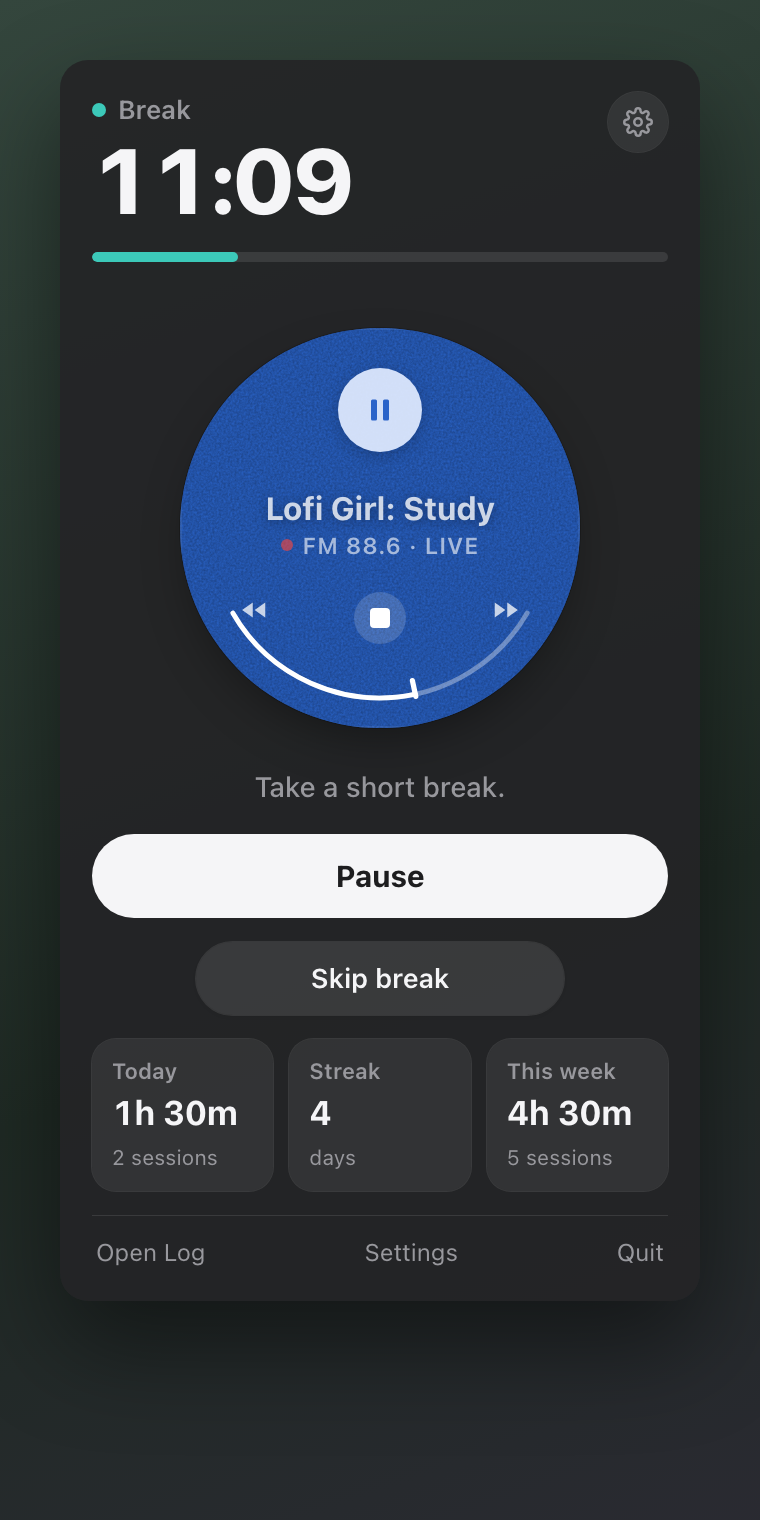
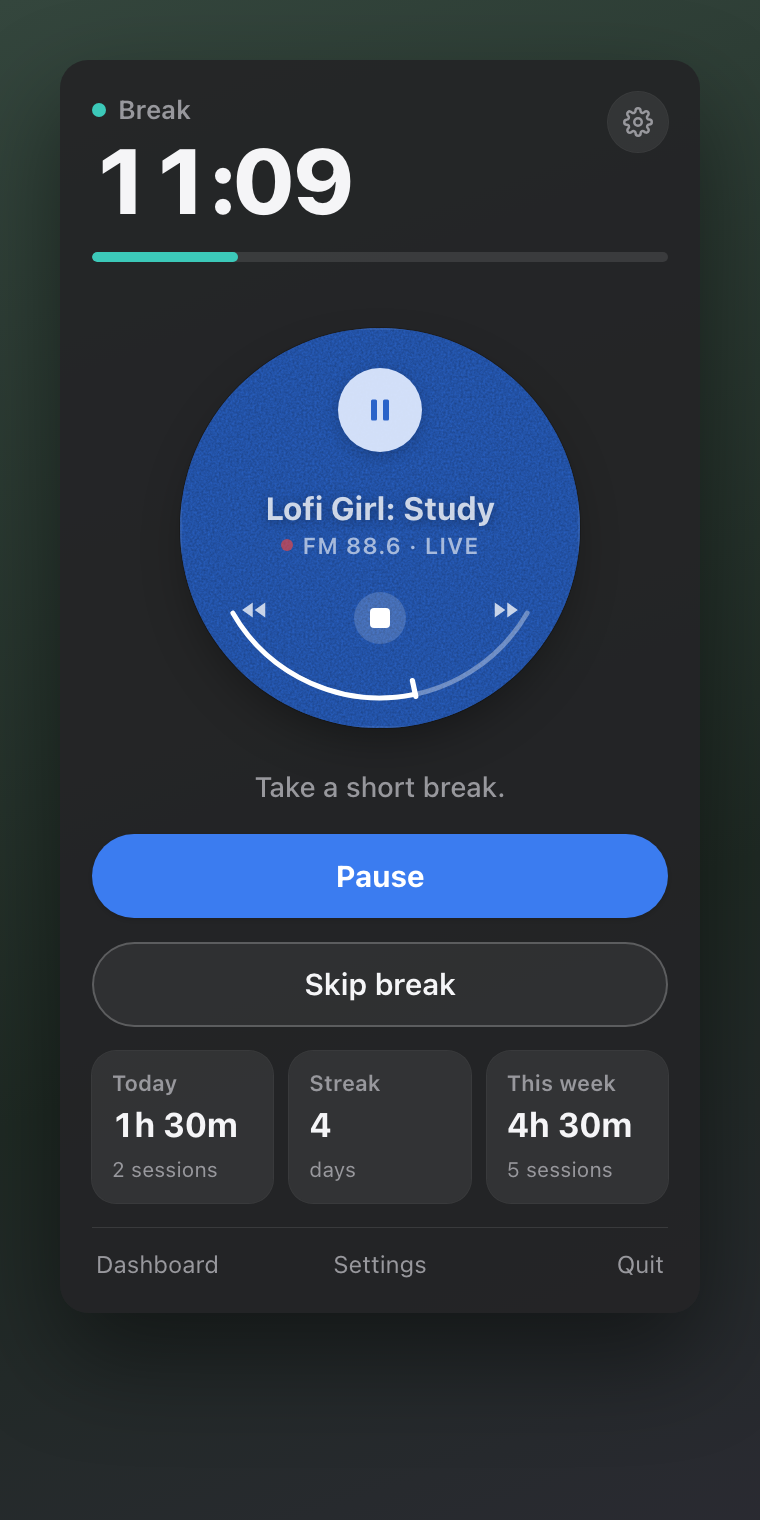
Equal-width buttons: blue main action, outlined second; Dashboard link
- Start Focus, Pause and Resume are blue with white text; the second
  action is the same size, white (subtle in dark mode) with an outline.
- The footer says Dashboard instead of Open Log, and Settings sits
  exactly in the middle. Version 2.9.

diff --git a/src/panel.html b/src/panel.html
@@ -5,8 +5,8 @@
 <meta name="viewport" content="width=device-width, initial-scale=1">
 <title>Focus MN</title>
 <style>
-:root{--ink:#1d1d1f;--muted:#6e6e73;--card:rgba(255,255,255,.72);--line:rgba(0,0,0,.08);--btn:#1d1d1f;--btnInk:#fff;--btn2:#fff;--accent:#2f6fdb;--break:#1fa99b;--field:rgba(0,0,0,.05)}
-@media (prefers-color-scheme: dark){:root{--ink:#f5f5f7;--muted:#98989d;--card:rgba(255,255,255,.07);--line:rgba(255,255,255,.1);--btn:#f5f5f7;--btnInk:#1d1d1f;--btn2:rgba(255,255,255,.1);--accent:#4a8cff;--break:#3cc9b9;--field:rgba(255,255,255,.08)}}
+:root{--ink:#1d1d1f;--muted:#6e6e73;--card:rgba(255,255,255,.72);--line:rgba(0,0,0,.08);--btn:#1d1d1f;--btnInk:#fff;--btn2:#fff;--accent:#2f6fdb;--break:#1fa99b;--outline:rgba(0,0,0,.14);--field:rgba(0,0,0,.05)}
+@media (prefers-color-scheme: dark){:root{--ink:#f5f5f7;--muted:#98989d;--card:rgba(255,255,255,.07);--line:rgba(255,255,255,.1);--btn:#f5f5f7;--btnInk:#1d1d1f;--btn2:rgba(255,255,255,.06);--outline:rgba(255,255,255,.22);--accent:#3b7cf0;--break:#3cc9b9;--field:rgba(255,255,255,.08)}}
 *{box-sizing:border-box}
 html,body{margin:0;background:transparent;color:var(--ink);font:13px/1.35 -apple-system,BlinkMacSystemFont,system-ui,sans-serif;-webkit-font-smoothing:antialiased;-webkit-user-select:none;user-select:none;cursor:default}
 button{font:inherit;color:inherit;border:0;background:none;padding:0;cursor:pointer}
@@ -83,19 +83,22 @@ body.preview .panel{background:rgba(246,245,243,.9);border-radius:14px;box-shado
 /* status, buttons, stats */
 .msg{font-size:14px;color:var(--muted);text-align:center;margin:8px 4px 2px;min-height:19px;font-weight:500}
 .actions{display:flex;flex-direction:column;gap:12px}
-.primary{background:var(--btn);color:var(--btnInk);border-radius:99px;padding:11px 0;text-align:center;font-weight:700;font-size:15px;width:100%}
-.secondary{background:var(--btn2);border-radius:99px;padding:9px 0;font-weight:600;font-size:13.5px;text-align:center;width:100%;box-shadow:0 0 0 .5px var(--line),0 1px 2px rgba(0,0,0,.06)}
+/* Main action: the accent with white text. Second action: same size, white with a thin outline. */
+.primary{background:var(--accent);color:#fff;border-radius:99px;padding:11px 0;text-align:center;font-weight:700;font-size:15px;width:100%;box-shadow:0 1px 2px rgba(0,0,0,.12)}
+.primary:hover{filter:brightness(1.06)}
+.secondary{background:var(--btn2);border-radius:99px;padding:11px 0;font-weight:600;font-size:15px;text-align:center;width:100%;box-shadow:inset 0 0 0 1px var(--outline)}
+.secondary:hover{background:var(--field)}
 .row{display:grid;grid-auto-flow:column;grid-auto-columns:1fr;gap:10px}
 /* One secondary button sits under the main one, narrower, so the main action stands out. */
-.actions .row.one{width:64%;margin:0 auto}
 .primary:active,.secondary:active{transform:scale(.985)}
 .stats{display:grid;grid-template-columns:repeat(3,1fr);gap:8px}
 .stat{background:var(--card);border-radius:12px;padding:9px 10px;box-shadow:0 0 0 .5px var(--line)}
 .stat small{display:block;font-size:11px;color:var(--muted);font-weight:600}
 .stat b{display:block;font-size:17px;font-weight:700;margin:2px 0 1px;font-variant-numeric:tabular-nums}
 .stat span{font-size:10.5px;color:var(--muted)}
-.foot{display:flex;justify-content:space-between;font-size:12px;color:var(--muted);border-top:.5px solid var(--line);padding:10px 2px 0}
+.foot{display:grid;grid-template-columns:1fr auto 1fr;font-size:12px;color:var(--muted);border-top:.5px solid var(--line);padding:10px 2px 0}
 .foot button:hover{color:var(--ink)}
+.foot button:first-child{justify-self:start}.foot button:last-child{justify-self:end}
 
 /* questions (end of a block or break), shown here when the panel is open, otherwise in the Island (the black box under the notch) */
 .ask{display:flex;flex-direction:column;gap:9px;background:var(--card);border-radius:14px;padding:13px;box-shadow:0 0 0 .5px var(--line)}
@@ -154,7 +157,7 @@ body.preview .panel{background:rgba(246,245,243,.9);border-radius:14px;box-shado
     <div class="stat"><small>Streak</small><b id="tStreak">0</b><span>days</span></div>
     <div class="stat"><small>This week</small><b id="tWeek">0m</b><span id="tWeekN">0 sessions</span></div>
   </div>
-  <div class="foot"><button type="button" id="openLog">Open Log</button><button type="button" id="openSettings">Settings</button><button type="button" id="quit">Quit</button></div>
+  <div class="foot"><button type="button" id="openLog">Dashboard</button><button type="button" id="openSettings">Settings</button><button type="button" id="quit">Quit</button></div>
 </div>
 
 <script>

diff --git a/README.md b/README.md
@@ -45,7 +45,7 @@ A focus timer and lofi radio that lives in your Mac's menu bar. Click the time i
    xattr -cr "/Applications/Focus MN.app"
    ```
 
-Focus MN has no Dock icon: look for the timer icon in the menu bar. Right-click it for a small menu (Open Log, Settings, Check for Updates, Quit).
+Focus MN has no Dock icon: look for the timer icon in the menu bar. Right-click it for a small menu (Dashboard, Settings, Check for Updates, Quit).
 
 ## Updates
 
